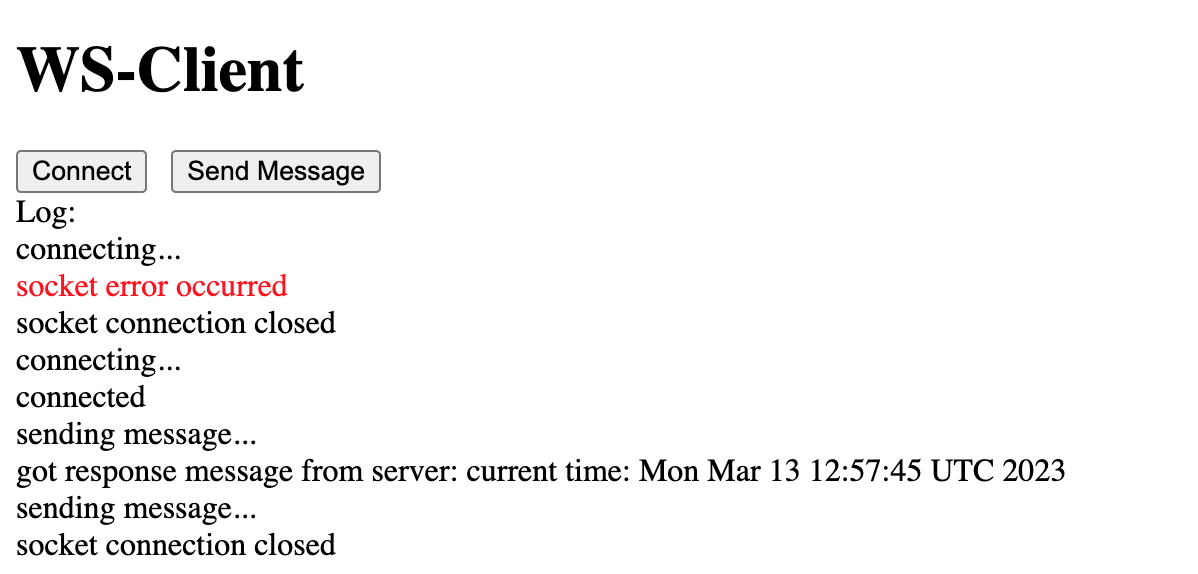
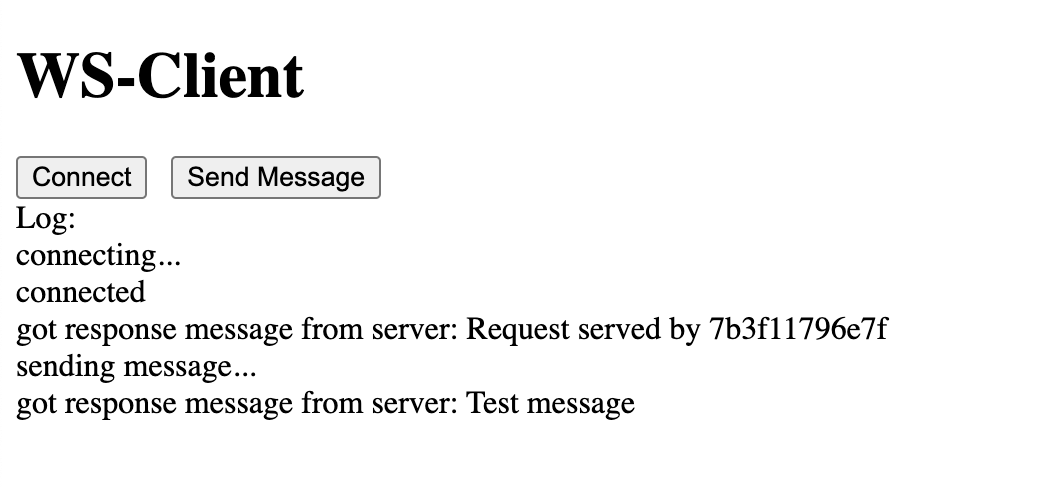
replace sample service with echo service (#149)

Changed region(s): [[0.0, 0.2459, 0.8906, 0.9836], [0.0, 0.0615, 0.3071, 0.2152]]

diff --git a/blog/openam-openig-websocket.md b/blog/openam-openig-websocket.md
@@ -24,37 +24,38 @@ This article is a continuation of the article [How to Add Authorization and Prot
 ](https://github.com/OpenIdentityPlatform/OpenAM/wiki/How-to-Add-Authorization-and-Protect-Your-Application-With-OpenAM-and-OpenIG-Stack). The previous article described how to protect regular HTTP endpoints. In the following, we will protect a WebSocket connection with OpenAM authentication. To simplify the setup and deployment of services we will use Docker and Docker Compose tools.
 
 
-## Sample Websocket Service Introduction
+# Sample Websocket Service Introduction
 
-To test WebSocket we will use a Spring Framework-based [Sample Socket Service](https://github.com/maximthomas/openig-protect-ws). To run the service in Docker, create a `docker-compose.yml` file and add sample-service:
+To test WebSocket we will use a test [echo-server](https://hub.docker.com/r/jmalloc/echo-server). To run the service in Docker, create a `docker-compose.yml` file and add sample-service:
 
 `docker-compose.yml`:
 ```yml
 version: '3'
 services:
-  sample-service:
-    image: maximthomas/sample-service
+  echo-server:
+    image: jmalloc/echo-server
     restart: always
     ports:  
         - "8082:8080"
     networks:
       openam_network:
         aliases:
-          - sample-service
+          - echo-server
 networks:
   openam_network:
     driver: bridge
 ```
 
-Run the `docker compose up` command and after the service is started, open your browser and navigate to [http://localhost:8082/ui/ws](http://localhost:8082/ui/ws). You will see a web page from which you can connect to the WebSocket, send messages, and see the replies from the server. Establish a connection by pressing the `Connect` button and send a message by pressing the `Send Message` button. After a message is received by the server it responds by the current server time.
+Run the `docker compose up` command and after the service is started, you will see in the console something like this:
+```
+Echo server listening on port 8080.
+```
 
-![Sample Service WebSocket UI](/assets/img/openam-openig-websocket/sample-service-ws-ui.png)
+# OpenIG Configuration
 
-## OpenIG Configuration
+Let's setup OpenIG to return a static content with a WebSocket client application
 
-Let's setup access to the sample service instance via OpenIG. Remove the `ports` section from the `docker-compose.yml` file and add OpenIG.
-
-Create folder `openig-config` go to the folder and create two files `admin.json` and `config.json` with the following contents:
+Create folder `openig-config` go to the folder and create two files ``admin.json`` and `config.json` with the following contents:
 
 `admin.json`
 ```json
@@ -64,7 +65,7 @@ Create folder `openig-config` go to the folder and create two files `admin.json`
 }
 ```
 
-`confin.json`
+`config.json`
 ```json
 {
   "heap": [],
@@ -82,39 +83,117 @@ Create folder `openig-config` go to the folder and create two files `admin.json`
 }
 ```
 
-Then add OpenIG routes for `sample-service` UI and WebSocket endpoints. Create a `routes` folder in the `openig-config` folder.
+Then add OpenIG routes for the `echo-server` UI and WebSocket endpoints. Create a `routes` folder in the `openig-config` folder.
 In `routes` folder create a `10-ui.json` for UI and a `10-websocket.json` as well.
 `10-ui.json`
 ```json
 {
-   "name": "${matches(request.uri.path, '^/ui/*')}",
-   "condition": "${matches(request.uri.path, '^/ui/*')}",
-   "monitor": true,
-   "timer": true,
-   "handler": {
-      "type": "Chain",
-      "config": {
-         "filters": [],
-         "handler": "EndpointHandler"
-      }
-   },
-   "heap": [
-      {
-         "name": "EndpointHandler",
-         "type": "DispatchHandler",
+    "name": "${matches(request.uri.path, '^/ui')}",
+    "condition": "${matches(request.uri.path, '^/ui')}",
+    "monitor": true,
+    "timer": true,
+    "handler": {
+       "type": "Chain",
+       "config": {
+          "filters": [],
+          "handler": "WSClient"
+       }
+    },
+    "heap": [
+       {
+         "name": "WSClient",
+         "type":"StaticResponseHandler",
          "config": {
-            "bindings": [
-               {
-                  "handler": "ClientHandler",
-                  "capture": "all",
-                  "baseURI": "${system['secured']}"
-               }
-            ]
+            "status": 200,
+            "entity": "<!DOCTYPE html>
+            <html lang='en'>
+            <head>
+                <meta charset='UTF-8'>
+                <title>WS-Client</title>
+                <style>
+                    #log p {
+                        margin: 0;
+                    }
+                    #log p.error {
+                        color: red;
+                    }
+                </style>
+            </head>
+            <body>
+              <div>
+                <h1>WS-Client</h1>
+                  <button id='connect' type='button'>Connect</button>
+                  &nbsp;
+                  <button id='send' type='button'>Send Message</button>
+                  <br>
+                  <label for='log'>Log:</label>
+                  <div id='log'>
+            
+                  </div>
+              </div>
+              <script>
+                  const connectBtn = document.getElementById('connect');
+                  connectBtn.onclick = connect;
+                  let socket;
+                  function connect() {
+                      appendToConsole('connecting...')
+                      const endpoint = 'ws://' + location.host + '/ws-handler';
+                      socket = new WebSocket(endpoint);
+                      socket.onmessage = function(event) {
+                          appendToConsole('got response message from server: ' + event.data);
+                      };
+                      socket.onopen = function () {
+                          appendToConsole('connected')
+                      };
+                      socket.onerror = function (e) {
+                          appendToConsole('socket error occurred', true);
+                      }
+                      socket.onclose = function () {
+                          appendToConsole('socket connection closed')
+                      }
+                  }
+            
+                  const sendBtn = document.getElementById('send');
+                  sendBtn.onclick = function () {
+                      if(socket.readyState !== WebSocket.OPEN) {
+                          appendToConsole('socket is not open', true);
+                          return;
+                      }
+                      appendToConsole('sending message...');
+                      try {
+                          socket.send('Test message');
+                      } catch (e) {
+                          appendToConsole('error sending message: ' + e.message, true)
+                      }
+                  }
+            
+                  function appendToConsole(message, error) {
+                      let className = '';
+                      if (error) {
+                          console.error(message);
+                          className = 'error';
+                      } else {
+                          console.log(message);
+                      }
+                      const log = document.getElementById('log');
+                      const p = document.createElement('p');
+                      p.innerText = message;
+                      p.className = className;
+                      log.append(p)
+                  }
+            
+              </script>
+            </body>
+            </html>"
          }
-      }
-   ]
-}
+       }
+    ]
+ }
 ```
+
+Let's setup access to the sample service instance via OpenIG. Remove the `ports` section from the `docker-compose.yml` file and add OpenIG.
+
+
 `10-websocket.json`
 ```json
 {
@@ -170,15 +249,16 @@ Add OpenIG service to the `docker-compose.yml` file.
 
 ```yml
 ...
-  openig:
-    image: openidentityplatform/openig
+    openig:
+    image: openidentityplatform/openig:latest
     build: .
     volumes:
       - ./openig-config:/usr/local/openig-config/config:ro
     ports:  
       - "8081:8080"
+      - "8000:8000"
     environment:
-      CATALINA_OPTS: -Dopenig.base=/usr/local/openig-config -Dsecured=http://sample-service:8080 -Dopenam=http://openam.example.org:8080/openam -Dws.secured=ws://sample-service:8080 -org.openidentityplatform.openig.websocket.ttl=180
+      CATALINA_OPTS: -Dopenig.base=/usr/local/openig-config -Dsecured=http://echo-server:8080 -Dopenam=http://openam.example.org:8080/openam -Dws.secured=ws://echo-server:8080 -Dorg.openidentityplatform.openig.websocket.ttl=180
     networks:
       openam_network:
         aliases:
@@ -196,7 +276,7 @@ System properties from OpenIG example configuration
 
 Run the `docker compose` command using the updated file. After OpenIG and sample servie are up, open [http://localhost:8080/ui/ws](http://localhost:8080/ui/ws) URL in your browser. You'll be able to establish a WebSocket connection and all interactions will be proxied by OpenIG.
 
-## OpenAM Configuration
+# OpenAM Configuration
 
 Let's add OpenAM authentication to our stack. 
 Add OpenAM service to the `docker-compose.yml` file.
@@ -289,9 +369,9 @@ Add OpenAM token validation filters to the `10-websocket.json` file.
 These three filters do the following:
 The first filter converts OpenAM token to JWT and sets to the request context. The second filter adds JWT to the OpenIG to the target service request. The third filter checks if there is a JWT in the request context and if not, responds with the `401` error. If authentication
 
-## Test Solution
+# Test Solution
 
-Navigate to [http://openig.example.org:8081/ui/ws](http://openig.example.org:8081/ui/ws) and press the `Connect` button. You will see the connection error message.
+Navigate to [http://openig.example.org:8081/ui](http://openig.example.org:8081/ui) and press the `Connect` button. You will see the connection error message.
 
 ```
 Log:
@@ -302,7 +382,7 @@ socket connection closed
 
 Open the next tab in your browser and navigate to the OpenAM URL [http://openam.example.org:8080/openam](http://openam.example.org:8080/openam)
 
-Login to OpenAM, return to [http://openig.example.org:8081/ui/ws](http://openig.example.org:8081/ui/ws) tab and try to connect again. 
+Login to OpenAM, return to [http://openig.example.org:8081/ui](http://openig.example.org:8081/ui) tab and try to connect again. 
 
 You will see the following
 ```
@@ -312,8 +392,8 @@ connected
 
 Press the `Send Message` button and you should see the following messages
 ```
-sending message...</br>
-got response message from server: current time: Mon Mar 13 12:57:45 UTC 2023
+sending message...
+got response message from server: Test message
 ```
 
 Let's logout from OpenAM go back to [http://openig.example.org:8081/ui/ws](http://openig.example.org:8081/ui/ws) wait 3 minutes (as set in the `org.openidentityplatform.openig.websocket.ttl` setting) and try to send a message.
